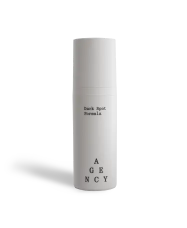
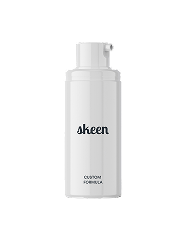
commit

Changed region(s): [[0.107, 0.1535, 0.6684, 0.8904]]

diff --git a/components/eczema-hero.tsx b/components/eczema-hero.tsx
@@ -1,5 +1,5 @@
 import React from "react";
-import hero from "../public/assets/hero.png";
+import hero from "../public/assets/formular.png";
 import { useState, useCallback, useEffect } from "react";
 import { styled } from "@mui/material/styles";
 import Button from "@mui/material/Button";
@@ -23,19 +23,26 @@ const SkeenButton = styled(Button)({
 const Hero = () => {
   return (
     <div className="px-5 md:px-[125px] pb-[90px] md:pb-36 flex flex-col md:flex-row md:justify-between">
-      <div className=" md:max-w-[549px] pt-[42px] md:pb-0 md:pt-[162px]">
+      <div className=" md:max-w-[549px] pt-[42px] md:pb-0 md:pt-[130px]">
         <p className="text-[34px] md:text-start md:text-5xl md:leading-[60px] font-bold text-[#3E7EEE] leading-[43px]">
-          Get expert eczema treatment online
+          Acne Formula
+        </p>
+        <p className="mt-5 md:mt-5 text-base font-medium md:text-start md:text-[20px] leading-[22px] md:leading-7 text-[#333D47]">
+        ₦35,000 • 30 g
         </p>
         <p className="mt-5 md:mt-5 text-base font-normal md:text-start md:text-[20px] leading-[22px] md:leading-7 text-[#333D47]">
-          Get effective eczema treatments that works. Prescribed online by
-          licensed dermatology providers. No appointments, waiting rooms, or
-          pharmacy visits
+          Fight breakouts with a formula made for your skin. Clinically proven
+          ingredients work to unclog pores, reduce blemishes, and tackle
+          blackheads, whiteheads, and pimples, and reveal smooth, clear skin.
+          <br />
+          <br />
+          Your free consultation with our dermatology provider would help us
+          personalize your formula for you.
         </p>
         <div className="mt-8 ">
           <Link href="https://docs.google.com/forms/d/e/1FAIpQLSek0GpD3HYeD6VRRTr_nP-r5--4r_GoeL-m_XkUfoJ1mxWTUw/viewform">
             <SkeenButton className="text-sm md:text-base md:leading-5 font-medium">
-              Get started now
+              Get my formula now
             </SkeenButton>
           </Link>
         </div>

diff --git a/components/skin-aging-hero.tsx b/components/skin-aging-hero.tsx
@@ -1,5 +1,5 @@
 import React from "react";
-import hero from "../public/assets/hero.png";
+import hero from "../public/assets/formular.png";
 import { useState, useCallback, useEffect } from "react";
 import { styled } from "@mui/material/styles";
 import Button from "@mui/material/Button";
@@ -23,18 +23,25 @@ const SkeenButton = styled(Button)({
 const Hero = () => {
   return (
     <div className="px-5 md:px-[125px] pb-[90px] md:pb-36 flex flex-col md:flex-row md:justify-between">
-      <div className=" md:max-w-[549px] pt-[42px] md:pb-0 md:pt-[130px]">
+       <div className=" md:max-w-[549px] pt-[42px] md:pb-0 md:pt-[130px]">
         <p className="text-[34px] md:text-start md:text-5xl md:leading-[60px] font-bold text-[#3E7EEE] leading-[43px]">
-          Treat skin-aging with a custom formula made just for you
+        Anti-aging Formula
+        </p>
+        <p className="mt-5 md:mt-5 text-base font-medium md:text-start md:text-[20px] leading-[22px] md:leading-7 text-[#333D47]">
+        ₦35,000 • 18 g
         </p>
         <p className="mt-5 md:mt-5 text-base font-normal md:text-start md:text-[20px] leading-[22px] md:leading-7 text-[#333D47]">
-          Your skin is unique, your skincare formula should be too. Analyze your
-          skin and get a personalized skin-aging formula made just for you
+        Smoothen fine lines, boost collagen, and enhance skin texture with a formula built just for you. Our tailored ingredients deliver firmer, younger-looking skin.
+        
+          <br />
+          <br />
+          Your free consultation with our dermatology provider would help us
+          personalize your formula for you.
         </p>
         <div className="mt-8 ">
           <Link href="https://docs.google.com/forms/d/e/1FAIpQLSek0GpD3HYeD6VRRTr_nP-r5--4r_GoeL-m_XkUfoJ1mxWTUw/viewform">
             <SkeenButton className="text-sm md:text-base md:leading-5 font-medium">
-              Get started now
+              Get my formula now
             </SkeenButton>
           </Link>
         </div>

diff --git a/components/hyperpigmentation-hero.tsx b/components/hyperpigmentation-hero.tsx
@@ -1,5 +1,5 @@
 import React from "react";
-import hero from "../public/assets/hero.png";
+import hero from "../public/assets/formular.png";
 import { useState, useCallback, useEffect } from "react";
 import { styled } from "@mui/material/styles";
 import Button from "@mui/material/Button";
@@ -25,17 +25,24 @@ const Hero = () => {
     <div className="px-5 md:px-[125px] pb-[90px] md:pb-36 flex flex-col md:flex-row md:justify-between">
       <div className=" md:max-w-[549px] pt-[42px] md:pb-0 md:pt-[130px]">
         <p className="text-[34px] md:text-start md:text-5xl md:leading-[60px] font-bold text-[#3E7EEE] leading-[43px]">
-          Get your custom made formula to treat pigmentation
+          Pigmentation Formula
+        </p>
+        <p className="mt-5 md:mt-5 text-base font-medium md:text-start md:text-[20px] leading-[22px] md:leading-7 text-[#333D47]">
+          ₦35,000 • 18 g
         </p>
         <p className="mt-5 md:mt-5 text-base font-normal md:text-start md:text-[20px] leading-[22px] md:leading-7 text-[#333D47]">
-          Your skin is unique, your skincare formula should be too. Analyze your
-          skin and get a personalized hyperpigmentation formula made just for
-          you
+          Fade dark spots and restore your glow with a formula made just for
+          you. Designed to target hyperpigmentation, it brightens and evens your
+          skin tone for a radiant complexion.
+          <br />
+          <br />
+          Your free consultation with our dermatology provider would help us
+          personalize your formula for you.
         </p>
         <div className="mt-8 ">
           <Link href="https://docs.google.com/forms/d/e/1FAIpQLSek0GpD3HYeD6VRRTr_nP-r5--4r_GoeL-m_XkUfoJ1mxWTUw/viewform">
             <SkeenButton className="text-sm md:text-base md:leading-5 font-medium">
-              Get started now
+              Get my formula now
             </SkeenButton>
           </Link>
         </div>

diff --git a/components/acne-hero.tsx b/components/acne-hero.tsx
@@ -1,5 +1,5 @@
 import React from "react";
-import hero from "../public/assets/hero.png";
+import hero from "../public/assets/formular.png";
 import { useState, useCallback, useEffect } from "react";
 import { styled } from "@mui/material/styles";
 import Button from "@mui/material/Button";
@@ -25,16 +25,24 @@ const Hero = () => {
     <div className="px-5 md:px-[125px] pb-[90px] md:pb-36 flex flex-col md:flex-row md:justify-between">
       <div className=" md:max-w-[549px] pt-[42px] md:pb-0 md:pt-[130px]">
         <p className="text-[34px] md:text-start md:text-5xl md:leading-[60px] font-bold text-[#3E7EEE] leading-[43px]">
-          Treat acne with a custom formula made just for you
+          Acne Formula
+        </p>
+        <p className="mt-5 md:mt-5 text-base font-medium md:text-start md:text-[20px] leading-[22px] md:leading-7 text-[#333D47]">
+        ₦35,000 • 30 g
         </p>
         <p className="mt-5 md:mt-5 text-base font-normal md:text-start md:text-[20px] leading-[22px] md:leading-7 text-[#333D47]">
-          Your skin is unique, your skincare formula should be too. Analyze your
-          skin and get a personalized acne formula made just for you
+          Fight breakouts with a formula made for your skin. Clinically proven
+          ingredients work to unclog pores, reduce blemishes, and tackle
+          blackheads, whiteheads, and pimples, and reveal smooth, clear skin.
+          <br />
+          <br />
+          Your free consultation with our dermatology provider would help us
+          personalize your formula for you.
         </p>
         <div className="mt-8 ">
           <Link href="https://docs.google.com/forms/d/e/1FAIpQLSek0GpD3HYeD6VRRTr_nP-r5--4r_GoeL-m_XkUfoJ1mxWTUw/viewform">
             <SkeenButton className="text-sm md:text-base md:leading-5 font-medium">
-              Get your formula now
+              Get my formula now
             </SkeenButton>
           </Link>
         </div>

diff --git a/components/acne-section1.tsx b/components/acne-section1.tsx
@@ -80,7 +80,7 @@ const Section1 = () => {
         <div className="md:mt-[37px] mt-[28px] hidden md:flex">
           <Link href="https://docs.google.com/forms/d/e/1FAIpQLSek0GpD3HYeD6VRRTr_nP-r5--4r_GoeL-m_XkUfoJ1mxWTUw/viewform">
             <SkeenButton className="text-xs md:text-base font-medium">
-              Get your formula now
+              Get my formula now
             </SkeenButton>
           </Link>
         </div>

diff --git a/components/hyperpigmentation-section1.tsx b/components/hyperpigmentation-section1.tsx
@@ -80,7 +80,7 @@ const Section1 = () => {
         <div className="md:mt-[37px] mt-[28px] hidden md:flex">
           <Link href="https://docs.google.com/forms/d/e/1FAIpQLSek0GpD3HYeD6VRRTr_nP-r5--4r_GoeL-m_XkUfoJ1mxWTUw/viewform">
             <SkeenButton className="text-xs md:text-base font-medium">
-              Get your formula now
+              Get my formula now
             </SkeenButton>
           </Link>
         </div>

diff --git a/components/skin-aging-section1.tsx b/components/skin-aging-section1.tsx
@@ -80,7 +80,7 @@ const Section1 = () => {
         <div className="md:mt-[37px] mt-[28px] hidden md:flex">
           <Link href="https://docs.google.com/forms/d/e/1FAIpQLSek0GpD3HYeD6VRRTr_nP-r5--4r_GoeL-m_XkUfoJ1mxWTUw/viewform">
             <SkeenButton className="text-xs md:text-base font-medium">
-              Get your formula now
+              Get my formula now
             </SkeenButton>
           </Link>
         </div>

diff --git a/components/section2.tsx b/components/section2.tsx
@@ -89,7 +89,7 @@ const Section2 = () => {
       <div className="md:mt-[60px] mt-10">
         <Link href="https://docs.google.com/forms/d/e/1FAIpQLSek0GpD3HYeD6VRRTr_nP-r5--4r_GoeL-m_XkUfoJ1mxWTUw/viewform">
           <SkeenButton className="text-sm md:text-base md:leading-5 font-medium">
-            Get your formula now
+            Get my formula now
           </SkeenButton>
         </Link>
       </div>

diff --git a/components/hero.tsx b/components/hero.tsx
@@ -34,7 +34,7 @@ const Hero = () => {
         <div className="mt-8 ">
           <Link href="https://docs.google.com/forms/d/e/1FAIpQLSek0GpD3HYeD6VRRTr_nP-r5--4r_GoeL-m_XkUfoJ1mxWTUw/viewform">
             <SkeenButton className="text-sm md:text-base md:leading-5 font-medium">
-              Get your formula now
+              Get my formula now
             </SkeenButton>
           </Link>
         </div>

diff --git a/components/footer.tsx b/components/footer.tsx
@@ -34,7 +34,7 @@ const Footer = () => {
         </p>
         <Link href="https://docs.google.com/forms/d/e/1FAIpQLSek0GpD3HYeD6VRRTr_nP-r5--4r_GoeL-m_XkUfoJ1mxWTUw/viewform">
           <SkeenButton className="self-center text-sm md:text-base font-medium">
-            Get your formula now
+            Get my formula now
           </SkeenButton>
         </Link>
       </div>

diff --git a/components/navbar.tsx b/components/navbar.tsx
@@ -32,7 +32,7 @@ const Navbar = () => {
 
   return (
     <div>
-      <div className="px-5 md:px-[125px] py-5">
+      <div className="px-5 md:px-[125px] py-5 md:py-[25px]">
         <nav>
           <div className="container flex flex-wrap justify-between items-center mx-auto">
             <Link href="/">
